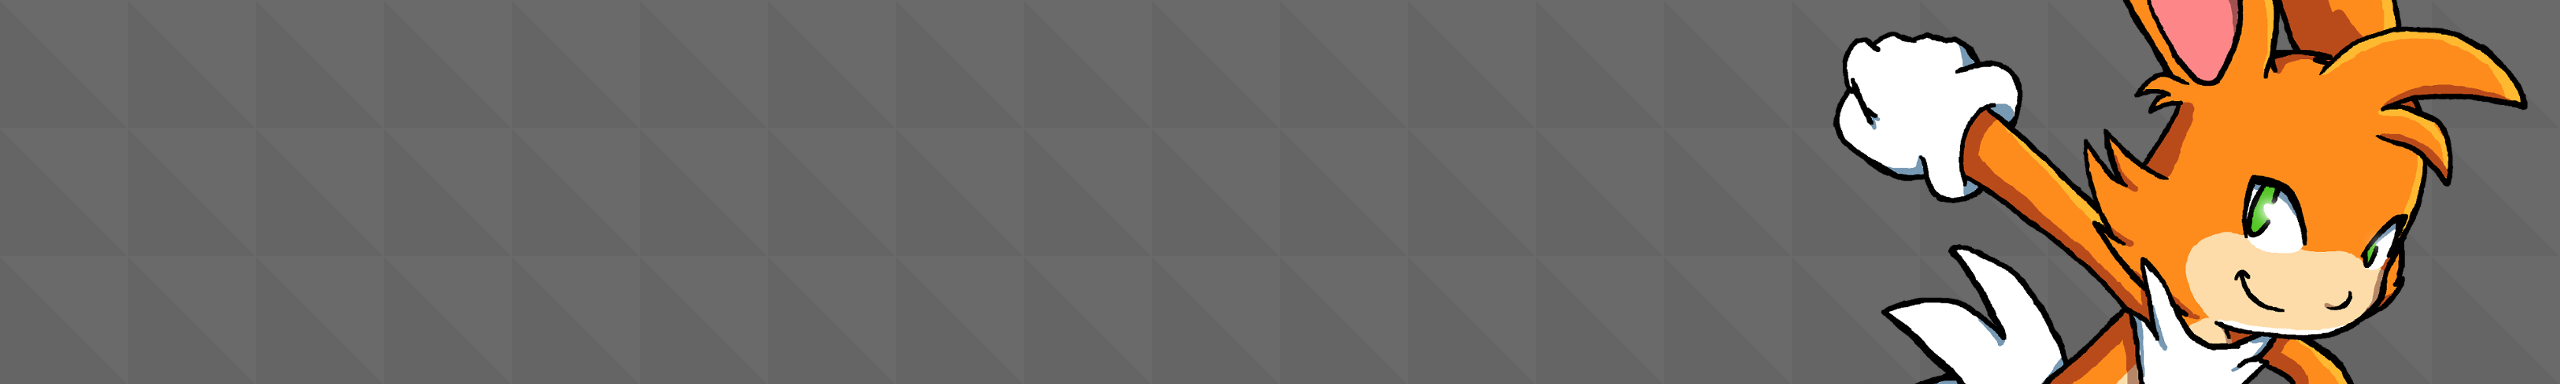
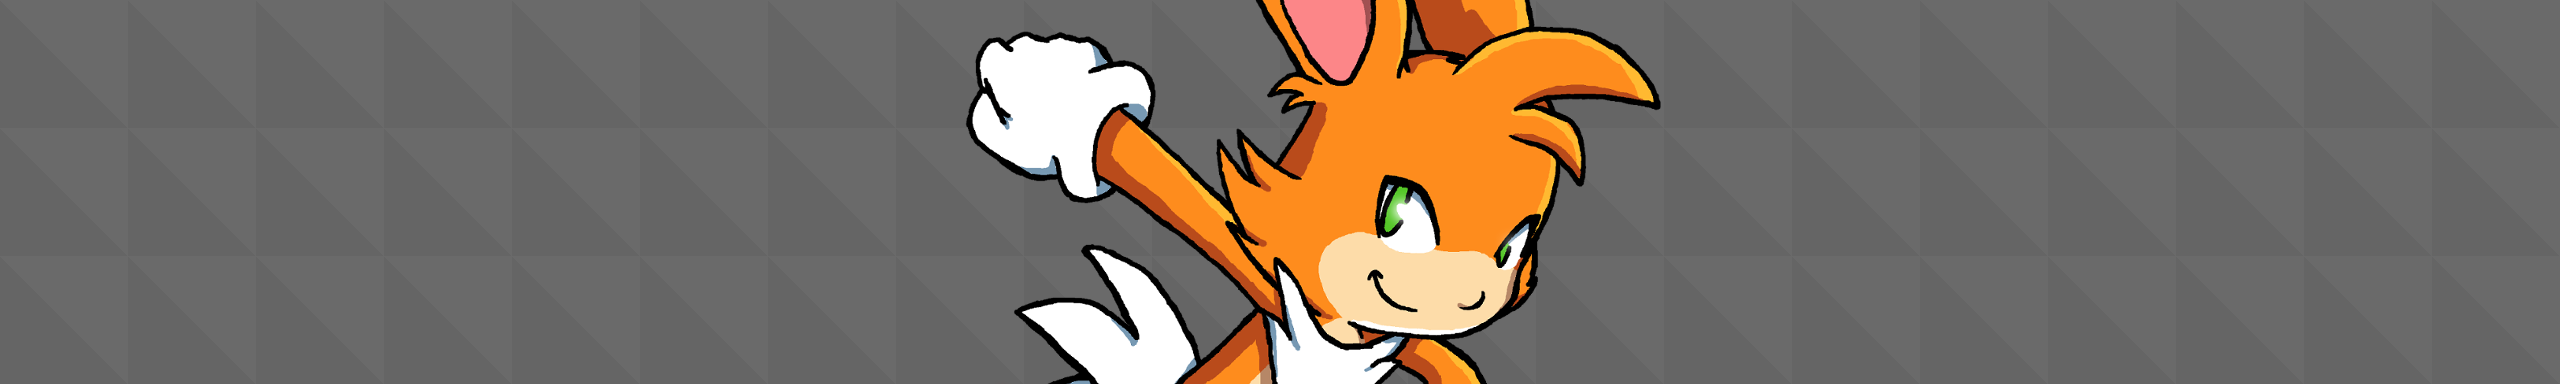
Updated top gfx

diff --git a/index.html b/index.html
@@ -21,7 +21,7 @@
       .btn { border: 0; border-radius: 0; text-transform: uppercase; letter-spacing: 1px; padding: 8px 24px; font-size: 20pt; font-weight: 900; }
       .btn-primary, .btn-primary:hover, .btn-primary:focus, .btn-primary:active, .btn-primary.active { background: #ff8800 !important; color: #fff !important; }
       .btn-primary { box-shadow: 8px 8px 0px 1px #4b4b4b !important; }
-      .strip { background: url('surge-strip.png') #4b4b4b; background-position: right; min-height: 384px; }
+      .strip { background: url('surge-strip.png') #4b4b4b; background-position: 57% center; min-height: 384px; }
       .box { max-width: 720px; margin-left: auto; margin-right: auto; background: rgba(0,0,0,0.0); font-size: 16pt; }
       .cartoon {
         text-shadow:
